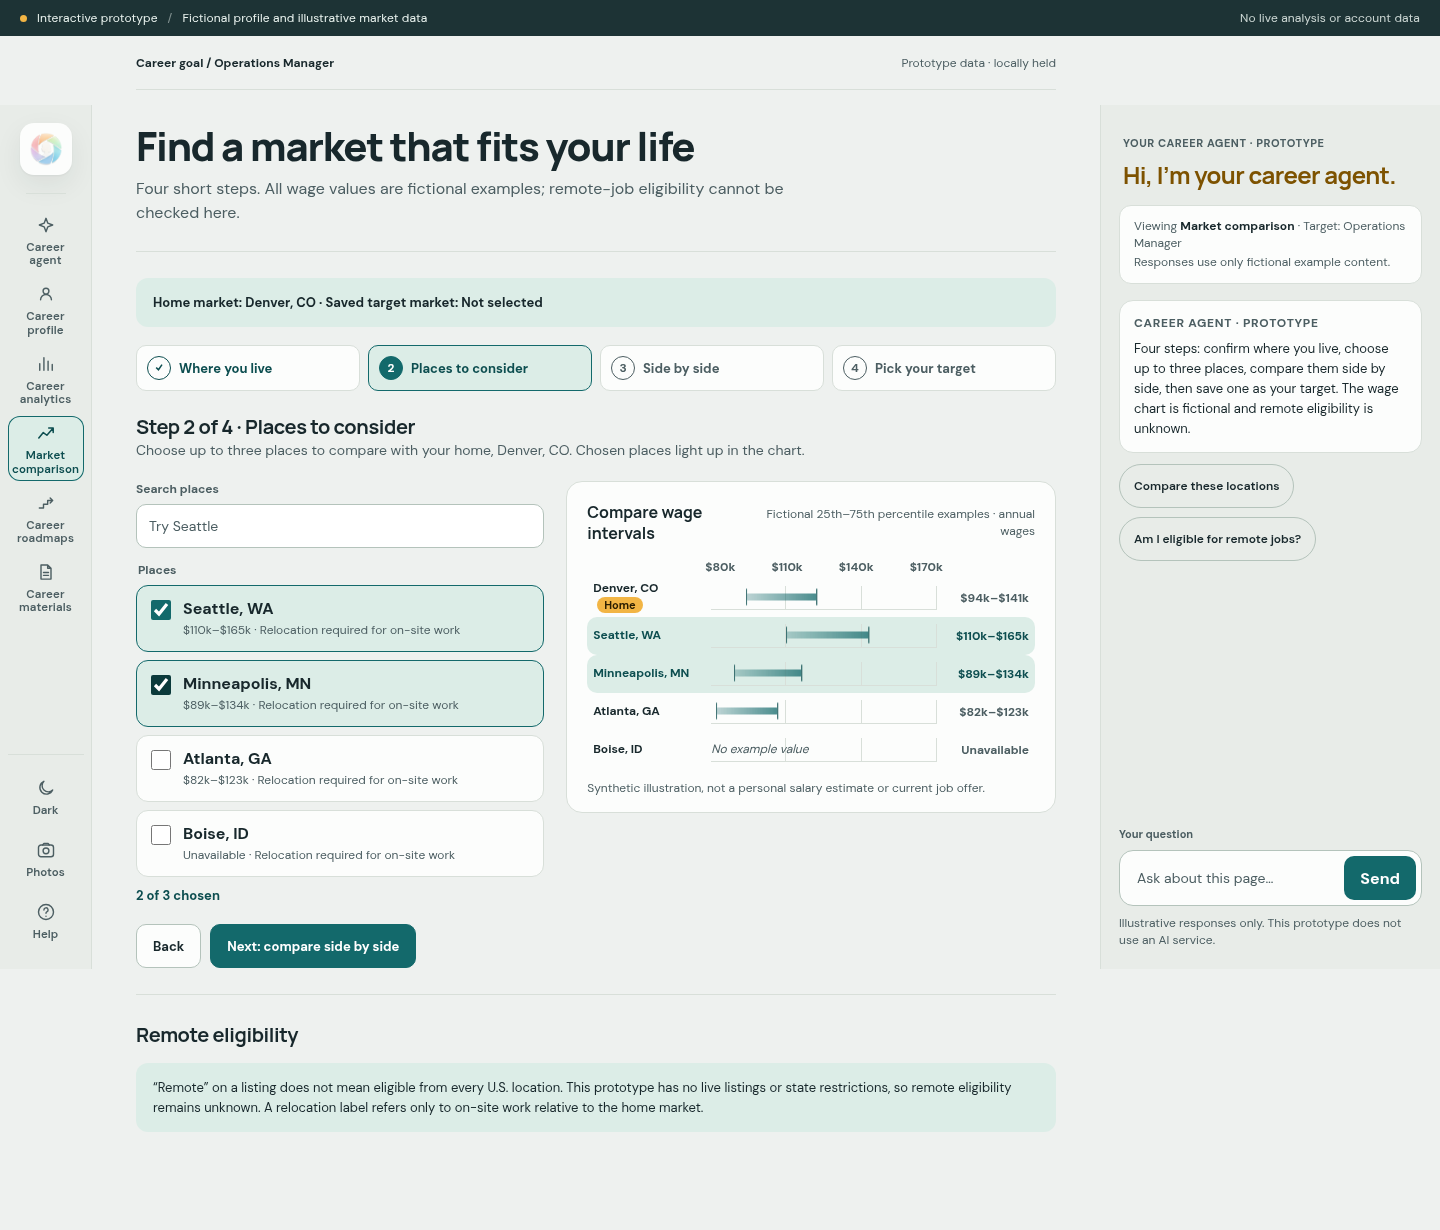
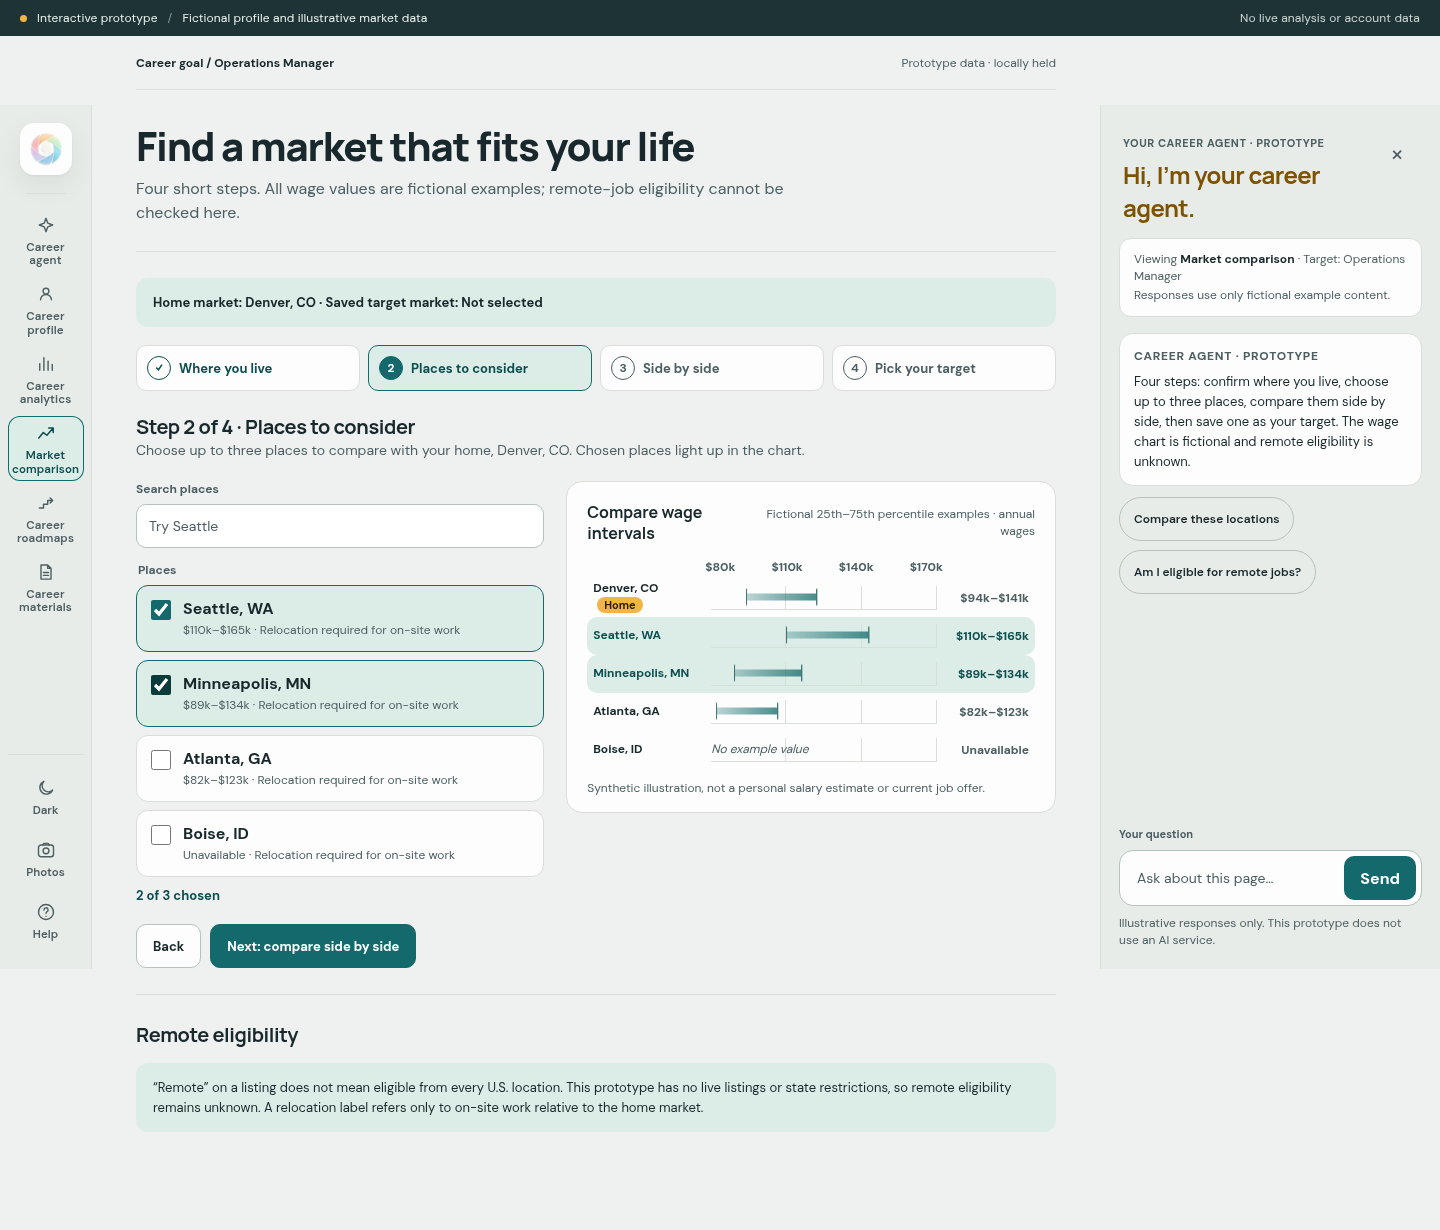
Collapsible desktop assistant; keep all analytics charts visible (#377)
Owner decisions: assistant open by default on desktop, collapsible to a
floating 'Ask your career agent' button, state remembered in localStorage;
all analytics charts stay visible. Wage tiles reflow to the available width.
Smoke covers collapse, reload persistence, reopen and focus.

Changed region(s): [[0.7812, 0.1545, 0.9688, 0.4943], [0.9062, 0.1236, 0.9688, 0.1545]]

diff --git a/prototypes/career-agent/app.js b/prototypes/career-agent/app.js
@@ -375,7 +375,7 @@ document.addEventListener('submit',event=>{
 document.addEventListener('input',event=>{
  if(event.target.id==='market-search'){state.marketQuery=event.target.value;applyMarketSearch();save();}
 });
-function openAssistant(){state.assistantOpen=true;$('#assistant').classList.add('open');$('#mobile-agent').setAttribute('aria-expanded','true');$('#assistant-input').focus();save();}
+function openAssistant(){if(desktop()&&document.documentElement.classList.contains('assistant-collapsed'))setAssistantCollapsed(false,false);state.assistantOpen=true;$('#assistant').classList.add('open');$('#mobile-agent').setAttribute('aria-expanded','true');$('#assistant-input').focus();save();}
 function closeAssistant(){state.assistantOpen=false;$('#assistant').classList.remove('open');$('#mobile-agent').setAttribute('aria-expanded','false');$('#mobile-agent').focus();save();}
 function sendPrompt(prompt){
  const q=(prompt||$('#assistant-input').value).trim();if(!q)return;
@@ -385,7 +385,24 @@ function sendPrompt(prompt){
 $('#assistant-send').addEventListener('click',()=>sendPrompt());
 $('#assistant-input').addEventListener('keydown',event=>{if(event.key==='Enter')sendPrompt();});
 $('#mobile-agent').addEventListener('click',openAssistant);
-$('#assistant-close').addEventListener('click',closeAssistant);
+const desktop=()=>!matchMedia('(max-width: 980px)').matches;
+/** Desktop: the assistant is open by default and can be collapsed; the choice is remembered. */
+function setAssistantCollapsed(collapsed,focus=true){
+  document.documentElement.classList.toggle('assistant-collapsed',collapsed);
+  try{localStorage.setItem('career-assistant',collapsed?'collapsed':'open');}catch{}
+  syncAssistantControls();
+  if(focus)(collapsed?$('#assistant-reopen'):$('#assistant-input')).focus();
+}
+function syncAssistantControls(){
+  const collapsed=document.documentElement.classList.contains('assistant-collapsed');
+  $('#assistant-reopen').hidden=!collapsed;
+  $('#assistant-reopen').setAttribute('aria-expanded',String(!collapsed));
+  $('#assistant-close').setAttribute('aria-label',desktop()?'Collapse assistant':'Close assistant');
+}
+$('#assistant-close').addEventListener('click',()=>desktop()?setAssistantCollapsed(true):closeAssistant());
+$('#assistant-reopen').addEventListener('click',()=>setAssistantCollapsed(false));
+window.addEventListener('resize',syncAssistantControls);
+syncAssistantControls();
 $('#mobile-menu').addEventListener('click',()=>{const nav=$('#mobile-nav');nav.hidden=!nav.hidden;$('#mobile-menu').setAttribute('aria-expanded',String(!nav.hidden));});
 document.addEventListener('keydown',event=>{if(event.key==='Escape'){if(state.assistantOpen)closeAssistant();else if(!$('#mobile-nav').hidden){$('#mobile-nav').hidden=true;$('#mobile-menu').setAttribute('aria-expanded','false');$('#mobile-menu').focus();}}});
 syncThemeControls();

diff --git a/prototypes/career-agent/index.html b/prototypes/career-agent/index.html
@@ -6,6 +6,8 @@
   <meta name="theme-color" content="#eef1ef">
   <meta name="color-scheme" content="light dark">
   <script>
+    // Restore a collapsed desktop assistant before first paint.
+    try{if(localStorage.getItem('career-assistant')==='collapsed')document.documentElement.classList.add('assistant-collapsed');}catch(e){}
     // Apply the saved or system theme before first paint so there is no flash.
     (function(){var t;try{t=localStorage.getItem('career-theme');}catch(e){}
       if(t!=='light'&&t!=='dark')t=matchMedia('(prefers-color-scheme: dark)').matches?'dark':'light';
@@ -47,7 +49,7 @@
       <div id="view"></div>
     </main>
     <aside id="assistant" class="assistant" aria-label="Career assistant">
-      <div class="assistant-head"><div><small>YOUR CAREER AGENT · PROTOTYPE</small><h2>Hi, I’m your career agent.</h2></div><button id="assistant-close" type="button" class="icon-button" aria-label="Close assistant">×</button></div>
+      <div class="assistant-head"><div><small>YOUR CAREER AGENT · PROTOTYPE</small><h2>Hi, I’m your career agent.</h2></div><button id="assistant-close" type="button" class="icon-button" aria-label="Collapse assistant">×</button></div>
       <div id="assistant-context" class="assistant-context"></div>
       <div id="assistant-messages" class="assistant-messages" aria-live="polite"></div>
       <div class="assistant-compose">
@@ -57,6 +59,7 @@
       </div>
     </aside>
   </div>
+  <button type="button" id="assistant-reopen" class="assistant-reopen" aria-controls="assistant" aria-expanded="false" hidden><svg viewBox="0 0 24 24" aria-hidden="true"><path d="M5 5h14v10H10l-5 4Z"/></svg>Ask your career agent</button>
   <div id="toast" class="toast" role="status" aria-live="polite" hidden></div>
 </body>
 </html>

diff --git a/prototypes/career-agent/styles.css b/prototypes/career-agent/styles.css
@@ -319,3 +319,15 @@ tr:last-child td { border-bottom: 0; }
   html { scroll-behavior: auto; }
   *, *::before, *::after { animation-duration: .001ms !important; transition-duration: .001ms !important; }
 }
+
+/* Desktop assistant: open by default, collapsible (owner decision 2026-10-02) */
+.assistant-reopen { display: none; }
+@media (min-width: 981px) {
+  .assistant-head .icon-button { display: inline-grid; }
+  .assistant-collapsed .app-shell { grid-template-columns: 92px minmax(0, 1fr); }
+  .assistant-collapsed .assistant { display: none; }
+  .assistant-reopen:not([hidden]) { position: fixed; right: 20px; bottom: 20px; z-index: 15; display: inline-flex; align-items: center; gap: 8px; min-height: 48px; padding: 0 18px; border: 0; border-radius: 999px; background: var(--accent); color: var(--on-accent); font-weight: 700; font-size: 14px; box-shadow: 0 8px 24px rgba(0, 0, 0, .22); }
+  .assistant-reopen:hover { background: var(--accent-ink); }
+  .assistant-reopen svg { width: 18px; height: 18px; stroke: currentColor; fill: none; stroke-width: 1.8; stroke-linejoin: round; }
+}
+@media (max-width: 1230px) and (min-width: 981px) { .assistant-collapsed .app-shell { grid-template-columns: 88px minmax(0, 1fr); } }

diff --git a/prototypes/career-agent/visuals.css b/prototypes/career-agent/visuals.css
@@ -63,7 +63,7 @@
 .dash-row-2 { display: grid; grid-template-columns: minmax(0, 1.25fr) minmax(0, 1fr); gap: 14px; }
 
 /* Stat tiles */
-.stat-tiles { display: grid; grid-template-columns: repeat(4, minmax(0, 1fr)); gap: 12px; }
+.stat-tiles { display: grid; grid-template-columns: repeat(auto-fit, minmax(220px, 1fr)); gap: 12px; }
 .stat-tile { background: var(--surface); border: 1px solid var(--line); border-radius: var(--radius-card); padding: 16px 18px; display: grid; gap: 4px; align-content: start; min-width: 0; }
 .stat-value { font-family: Manrope, sans-serif; font-size: 26px; font-weight: 800; letter-spacing: -.03em; font-variant-numeric: tabular-nums; line-height: 1.15; }
 .stat-tile.mid .stat-value { color: var(--ok-ink); }
@@ -160,7 +160,6 @@
 @media (max-width: 1500px) {
   .dash-row-3 { grid-template-columns: repeat(2, minmax(0, 1fr)); }
   .dash-row-3 > :first-child { grid-column: 1 / -1; }
-  .stat-tiles { grid-template-columns: repeat(2, minmax(0, 1fr)); }
 }
 @media (max-width: 1230px) {
   .goal-overview { grid-template-columns: 1fr; }

diff --git a/prototypes/career-agent/DESIGN.md b/prototypes/career-agent/DESIGN.md
@@ -125,3 +125,8 @@ Owner direction after reviewing a dark analytics dashboard reference: adopt a da
 - **Shell.** Icon rail with labels, artifact column, assistant panel with greeting and pill prompts.
 - **Analytics dashboard, honest by construction.** Stat tiles show the *occupation* benchmark (25th / median / 75th, fictional) and a highlighted "Personalized comparable pay: Not available yet" tile. The gauge measures *evidence strength for the target role*, never a grade of the person. The ring is profile completeness; the radar compares confirmed evidence with typical role requirements (with a screen-reader table). The action matrix ranks by effort and time, not dollar value. Every panel carries a source tag. No "your number", grade, or opportunity-cost figure.
 - **Checks.** Smoke samples text contrast in both themes (≥ 4.5:1), plus 320px/2× reflow, focus and reduced motion.
+
+### Owner decisions (2026-10-02)
+
+- Analytics keeps every chart visible; nothing is hidden behind an "Explore the evidence" control.
+- The desktop assistant is open by default and can be collapsed. A floating "Ask your career agent" button reopens it, and the choice is saved in `localStorage` (`career-assistant`). On mobile it stays a sheet opened from "Ask agent".
